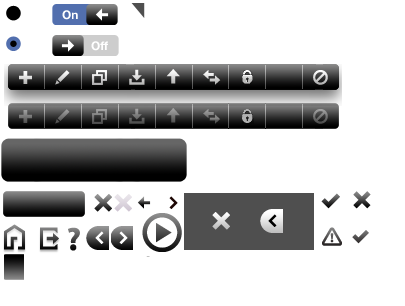
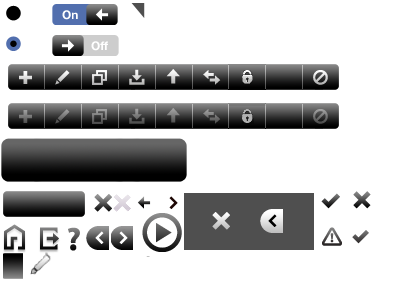
overall css fixes for UI

diff --git a/admin/views/default/_css/admin.css b/admin/views/default/_css/admin.css
@@ -1011,6 +1011,7 @@ button.ui-button::-moz-focus-inner {
   overflow: hidden;
   position: relative;
   width: 67px;
+  cursor :pointer !important;
 }
 
 .ui-icon-bubba-switch {
@@ -1070,6 +1071,12 @@ div.hotfix * {
     width:100%;
 }
 
+#wlan_advanced_switch {
+    font-size:14px;
+    line-height:31px;
+    height: 31px !important;
+}
+
 #lvm select {
   margin-right: 10px;
   width: 260px;
@@ -1078,6 +1085,10 @@ div.hotfix * {
 #lvm label {
   margin-right: 30px;
   padding-left: 1.25em;
+}
+
+#raid_status {
+    cursor:pointer !important;
 }
 
 #raid p {
@@ -1340,13 +1351,24 @@ input.mount {
   width: 17px;
 }
 
+.ui-icon-pencil {
+  background-image: url(../_img/icons.png)!important;
+  background-position: -31px -254px;
+  background-repeat: no-repeat;
+  cursor: pointer !important;
+  display: block;
+  float:left;
+  margin-right:10px;
+  height: 20px;
+  overflow: hidden;
+  width: 22px;
+}
+
 #fn-filemanager-action-panel .ui-icon-check,
 #fn-filemanager-action-panel .ui-icon-close  {
   background-image: url(../_img/icons.png)!important;
   background-repeat: no-repeat;
-  cursor: pointer!important;
-  display: block;
-  float: left;
+  cursor: pointer !important;
   height: 17px;
   overflow: hidden;
   width: 18px;
@@ -1482,6 +1504,20 @@ table.ui-table.ui-table-list tbody tr td:last-child button,#menu li a span {
 #settings_easyfind {
   margin-top: 31px;
 }
+
+#settings_log  {
+  margin-left:1.2em;
+}
+
+#users button,
+#mail input,
+#mail button,
+#printing button,
+#services input,
+#settings input {
+  margin-left:1.2em;
+} 
+
 
 table.typetable > tbody > tr > td,table.disks > tbody > tr > td,div.text input {
   vertical-align: middle;

diff --git a/admin/views/default/network/network_fw_view.php b/admin/views/default/network/network_fw_view.php
@@ -334,10 +334,10 @@ function copy_fields(formid) {
 		</td>
 		<td class="edit">
 				<a href="javascript: copy_fields('RMPORT_<?=$i?>')">
-    			    <span class="ui-icon ui-icon-pencil"></span>
+    			    <span class="ui-icon ui-icon-pencil"  title="Edit rule"></span>
                 </a>
 				<a href="javascript: document.RMPORT_<?=$i?>.submit()">
-				    <span class="ui-icon ui-icon-closethick"></span>
+				    <span class="ui-icon ui-icon-closethick" title="Delete rule"></span>
 				</a>
 		</td>
 	</tr>
@@ -347,18 +347,3 @@ function copy_fields(formid) {
 $i++;
 endforeach;
 ?>
-<table  id="firewall">
-	<tr class="ui-filemanager-state-header">
-		<td class="p_fw_c0"></td>
-		<td class="p_fw_c1"></td>
-		<td class="p_fw_c2"></td>
-		<td colspan="4" class="legend">
-			 <span class="ui-icon ui-icon-pencil"></span>&nbsp;&nbsp;Edit rule&nbsp;&nbsp;
-			 <span class="ui-icon ui-icon-closethick"></span>&nbsp;&nbsp;Delete rule
-		</td>
-	</tr>
-
-</table>
-
-
-

diff --git a/admin/views/default/settings/settings_identity_view.php b/admin/views/default/settings/settings_identity_view.php
@@ -3,7 +3,7 @@
 	<table class="networksettings">
 	    <tr><td colspan="4" class="ui-state-default ui-widget-header"><?=t('settings_identity_title')?></td></tr>
 		<tr>
-			<td></td>
+			
 			<td><?=t('settings_identity_hostname_label')?>:</td>
 			<td>
 				<input
@@ -15,7 +15,7 @@
 			</td>
 		</tr>
 		<tr>
-			<td></td>
+			
 			<td><?=t('settings_identity_workgroup_label')?>:</td>
 			<td>
 				<input
@@ -40,7 +40,7 @@
 	<table class="networksettings" id="settings_easyfind">
 	    <tr><td colspan="4" class="ui-state-default ui-widget-header"><?=t('settings_identity_easyfind_title')?></td></tr>
 		<tr>
-			<td></td>
+			
 			<td><?=t('settings_identity_easyfind_message')?>:</td>
 			<td>
 				<input
@@ -56,7 +56,7 @@
 
 		</tr>
 		<tr>
-			<td></td>
+			
 			<td><?=t('Easyfind name')?>:</td>
 			<td>
 				<input

diff --git a/admin/views/default/network/network_wlan_view.php b/admin/views/default/network/network_wlan_view.php
@@ -62,7 +62,7 @@
 </table>
 
 <fieldset class="expandable">
-<legend><span class="ui-state-default expansion"><span id="wlan_adv_mark">-</span>&nbsp;&nbsp;<?=t('wlan_title_advanced')?></span></legend>
+<legend class="ui-state-default ui-widget-header expansion" id="wlan_advanced_switch"><span ><span id="wlan_adv_mark">-</span>&nbsp;&nbsp;<?=t('wlan_title_advanced')?></span></legend>
 
 <div id="wlan_adv">
 

diff --git a/admin/views/default/disk/disk_raid_head_view.php b/admin/views/default/disk/disk_raid_head_view.php
@@ -8,7 +8,7 @@
 $(document).ready( function() {
 
 	$("div#adv_status").css("display","none");
-	$('#status_switch').click(function(e) {	    
+	$('#raid_status').click(function(e) {	    
 	    e.preventDefault();
 	    $('#adv_status').toggle();
 	    if($("#adv_status").is(":visible")) {$("#status_switch").html("-");}

diff --git a/admin/views/default/settings/settings_logs_view.php b/admin/views/default/settings/settings_logs_view.php
@@ -1,4 +1,4 @@
-<form action="<?=FORMPREFIX?>/settings/logs" method="post">
+<form action="<?=FORMPREFIX?>/settings/logs" method="post" id="settings_logs">
 
 	<table>
 	   <tr><td colspan="4" class="ui-state-default ui-widget-header"><?=t('Show logs')?></td></tr>
